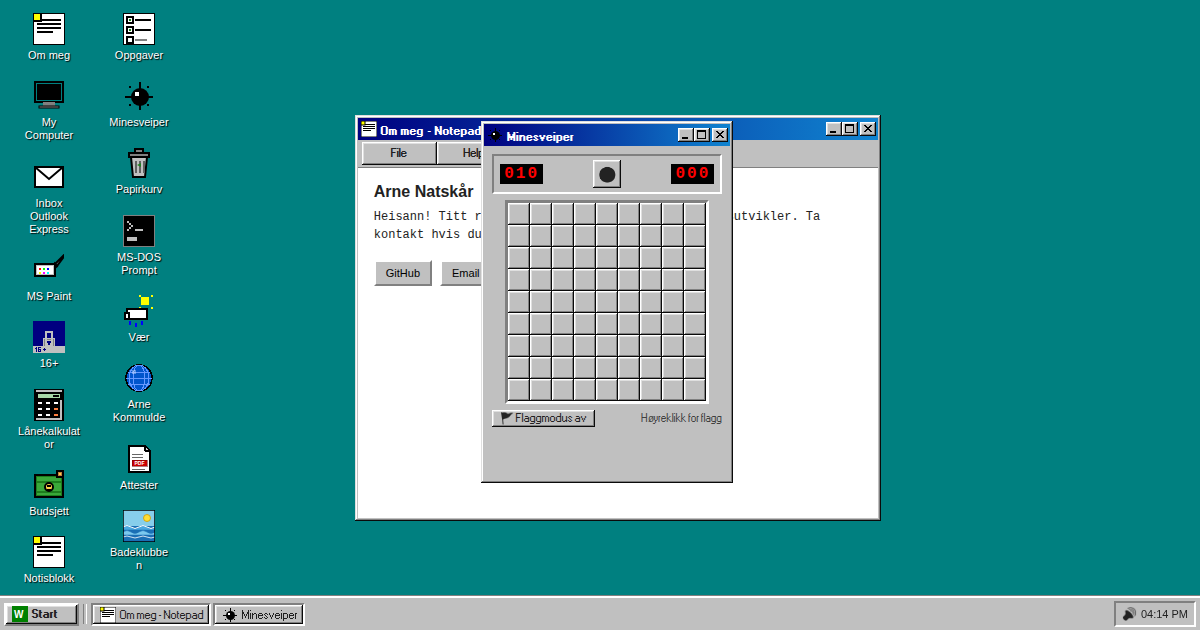
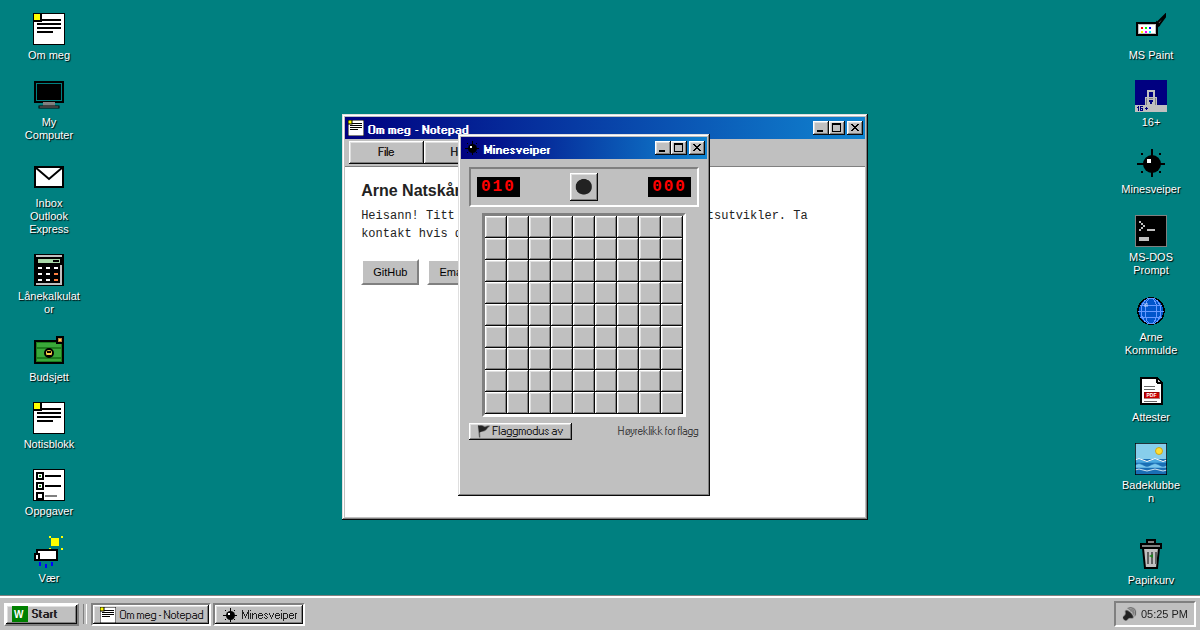
Fordel skrivebordsikonene: kjerneapper venstre, moro høyre, Papirkurv i hjørnet
Nytt desktopArea-felt på apper og snarveier styrer hvilken side ikonet
havner på. Spill, MS Paint, MS-DOS og eksterne snarveier ligger nå i en
egen klynge langs høyre kant, og Papirkurv er festet nederst i høyre
hjørne. Snarvei-ikonet er trukket ut i en egen ShortcutIcon-komponent.

Claude-Session: https://claude.ai/code/session_01CkWuAcY2veNt5UhoLnAdyJ

diff --git a/src/components/desktop/Desktop.tsx b/src/components/desktop/Desktop.tsx
@@ -5,6 +5,7 @@ import { isMobile } from '../../stores/viewport';
 import { displaySettings, previewScreensaver, PATTERN_CSS } from '../../stores/display';
 import { apps } from '../../apps/registry';
 import { shortcuts } from '../../apps/shortcuts';
+import type { ShortcutDefinition } from '../../apps/types';
 import { WindowFrame } from './WindowFrame';
 import { DesktopIcon } from './DesktopIcon';
 import { Taskbar } from './Taskbar';
@@ -17,6 +18,33 @@ import { useEffect, useState } from 'preact/hooks';
 // Persisterte vinduer kan referere til apper som er fjernet fra registeret
 // siden forrige besøk – rydd dem bort før første render.
 pruneWindows(Object.keys(apps));
+
+function ShortcutIcon({ sc }: { sc: ShortcutDefinition }) {
+  const open = () => window.open(sc.url, '_blank', 'noopener,noreferrer');
+  return (
+    <div
+      class="desktop-icon"
+      role="button"
+      tabIndex={0}
+      onDblClick={open}
+      onKeyDown={(e) => {
+        if (e.key === 'Enter' || e.key === ' ') {
+          e.preventDefault();
+          open();
+        }
+      }}
+      title={sc.title}
+    >
+      <img
+        src={sc.icon}
+        alt={sc.title}
+        style={{ width: 32, height: 32, imageRendering: 'pixelated' }}
+        draggable={false}
+      />
+      <span>{sc.title}</span>
+    </div>
+  );
+}
 
 export function Desktop() {
   // Branch before any desktop hooks run, so the window/taskbar/boot machinery
@@ -60,6 +88,16 @@ function DesktopShell() {
   const desktopApps = Object.values(apps).filter((a) => a.showOnDesktop);
   const desktopShortcuts = Object.values(shortcuts).filter((s) => s.showOnDesktop);
 
+  // Venstre side: kjerneappene. Høyre side: spill, kreativt og eksterne
+  // snarveier – med Papirkurv nederst i hjørnet, slik skikken er.
+  const leftApps = desktopApps.filter((a) => a.desktopArea !== 'right');
+  const rightApps = desktopApps.filter(
+    (a) => a.desktopArea === 'right' && a.id !== 'papirkurv',
+  );
+  const trashApp = desktopApps.find((a) => a.id === 'papirkurv');
+  const leftShortcuts = desktopShortcuts.filter((s) => s.desktopArea !== 'right');
+  const rightShortcuts = desktopShortcuts.filter((s) => s.desktopArea === 'right');
+
   const [ctxMenu, setCtxMenu] = useState<{ x: number; y: number } | null>(null);
 
   const onDesktopContextMenu = (e: MouseEvent) => {
@@ -101,33 +139,26 @@ function DesktopShell() {
         onContextMenu={onDesktopContextMenu}
       >
         <div class="desktop-icons">
-          {desktopApps.map((app) => (
+          {leftApps.map((app) => (
             <DesktopIcon key={app.id} app={app} />
           ))}
-          {desktopShortcuts.map((sc) => (
-            <div
-              key={sc.id}
-              class="desktop-icon"
-              role="button"
-              tabIndex={0}
-              onDblClick={() => window.open(sc.url, '_blank', 'noopener,noreferrer')}
-              onKeyDown={(e) => {
-                if (e.key === 'Enter' || e.key === ' ') {
-                  e.preventDefault();
-                  window.open(sc.url, '_blank', 'noopener,noreferrer');
-                }
-              }}
-              title={sc.title}
-            >
-              <img
-                src={sc.icon}
-                alt={sc.title}
-                style={{ width: 32, height: 32, imageRendering: 'pixelated' }}
-                draggable={false}
-              />
-              <span>{sc.title}</span>
-            </div>
+          {leftShortcuts.map((sc) => (
+            <ShortcutIcon key={sc.id} sc={sc} />
           ))}
+        </div>
+
+        <div class="desktop-icons desktop-icons-right">
+          {rightApps.map((app) => (
+            <DesktopIcon key={app.id} app={app} />
+          ))}
+          {rightShortcuts.map((sc) => (
+            <ShortcutIcon key={sc.id} sc={sc} />
+          ))}
+          {trashApp && (
+            <div class="desktop-icon-pin-bottom">
+              <DesktopIcon app={trashApp} />
+            </div>
+          )}
         </div>
 
         {state.windows.map((win) => {

diff --git a/src/apps/registry.ts b/src/apps/registry.ts
@@ -68,6 +68,7 @@ export const apps: Record<string, AppDefinition> = {
     resizable: true,
     singleton: false,
     showOnDesktop: true,
+    desktopArea: 'right',
     showInStartMenu: true,
     component: Paint,
   },
@@ -81,6 +82,7 @@ export const apps: Record<string, AppDefinition> = {
     resizable: false,
     singleton: true,
     showOnDesktop: true,
+    desktopArea: 'right',
     showInStartMenu: true,
     showOnMobile: true,
     tileColor: '#804080',
@@ -156,6 +158,7 @@ export const apps: Record<string, AppDefinition> = {
     resizable: false,
     singleton: true,
     showOnDesktop: true,
+    desktopArea: 'right',
     showInStartMenu: true,
     showOnMobile: true,
     tileColor: '#606060',
@@ -171,6 +174,7 @@ export const apps: Record<string, AppDefinition> = {
     resizable: true,
     singleton: true,
     showOnDesktop: true,
+    desktopArea: 'right',
     showInStartMenu: false,
     component: Papirkurv,
   },
@@ -197,6 +201,7 @@ export const apps: Record<string, AppDefinition> = {
     resizable: true,
     singleton: false,
     showOnDesktop: true,
+    desktopArea: 'right',
     showInStartMenu: true,
     component: Terminal,
   },

diff --git a/src/apps/shortcuts.ts b/src/apps/shortcuts.ts
@@ -7,6 +7,7 @@ export const shortcuts: Record<string, ShortcutDefinition> = {
     icon: '/icons/globe.svg',
     url: 'https://kommulde.no',
     showOnDesktop: true,
+    desktopArea: 'right',
     showInStartMenu: true,
     showInShortcutsFolder: true,
     tileColor: '#c06030',
@@ -17,6 +18,7 @@ export const shortcuts: Record<string, ShortcutDefinition> = {
     icon: '/icons/document.svg',
     url: 'https://attester.no',
     showOnDesktop: true,
+    desktopArea: 'right',
     showInStartMenu: true,
     showInShortcutsFolder: true,
     tileColor: '#406090',
@@ -27,6 +29,7 @@ export const shortcuts: Record<string, ShortcutDefinition> = {
     icon: '/icons/wave.svg',
     url: 'https://badeklubben.no',
     showOnDesktop: true,
+    desktopArea: 'right',
     showInStartMenu: true,
     showInShortcutsFolder: true,
     tileColor: '#0099bc',

diff --git a/src/apps/types.ts b/src/apps/types.ts
@@ -9,6 +9,8 @@ export interface AppDefinition {
   resizable?: boolean;
   singleton?: boolean;
   showOnDesktop?: boolean;
+  /** Which side of the desktop the icon sits on. Default 'left'. */
+  desktopArea?: 'left' | 'right';
   showInStartMenu?: boolean;
   /** Show this app as a tile on the mobile (Windows Phone) Start screen. */
   showOnMobile?: boolean;
@@ -26,6 +28,8 @@ export interface ShortcutDefinition {
   icon: string;
   url: string;
   showOnDesktop?: boolean;
+  /** Which side of the desktop the icon sits on. Default 'left'. */
+  desktopArea?: 'left' | 'right';
   showInStartMenu?: boolean;
   showInShortcutsFolder?: boolean;
   /** Solid accent color for the mobile Metro tile. */

diff --git a/src/styles/desktop.css b/src/styles/desktop.css
@@ -33,6 +33,19 @@ body {
   z-index: 1;
 }
 
+/* Høyre klynge: spill, kreativt og snarveier. Ekstra kolonner vokser
+   innover (wrap-reverse), og Papirkurv skyves ned i hjørnet. */
+.desktop-icons-right {
+  left: auto;
+  right: 8px;
+  flex-wrap: wrap-reverse;
+  align-content: flex-start;
+}
+
+.desktop-icon-pin-bottom {
+  margin-top: auto;
+}
+
 .desktop-icon {
   display: flex;
   flex-direction: column;
